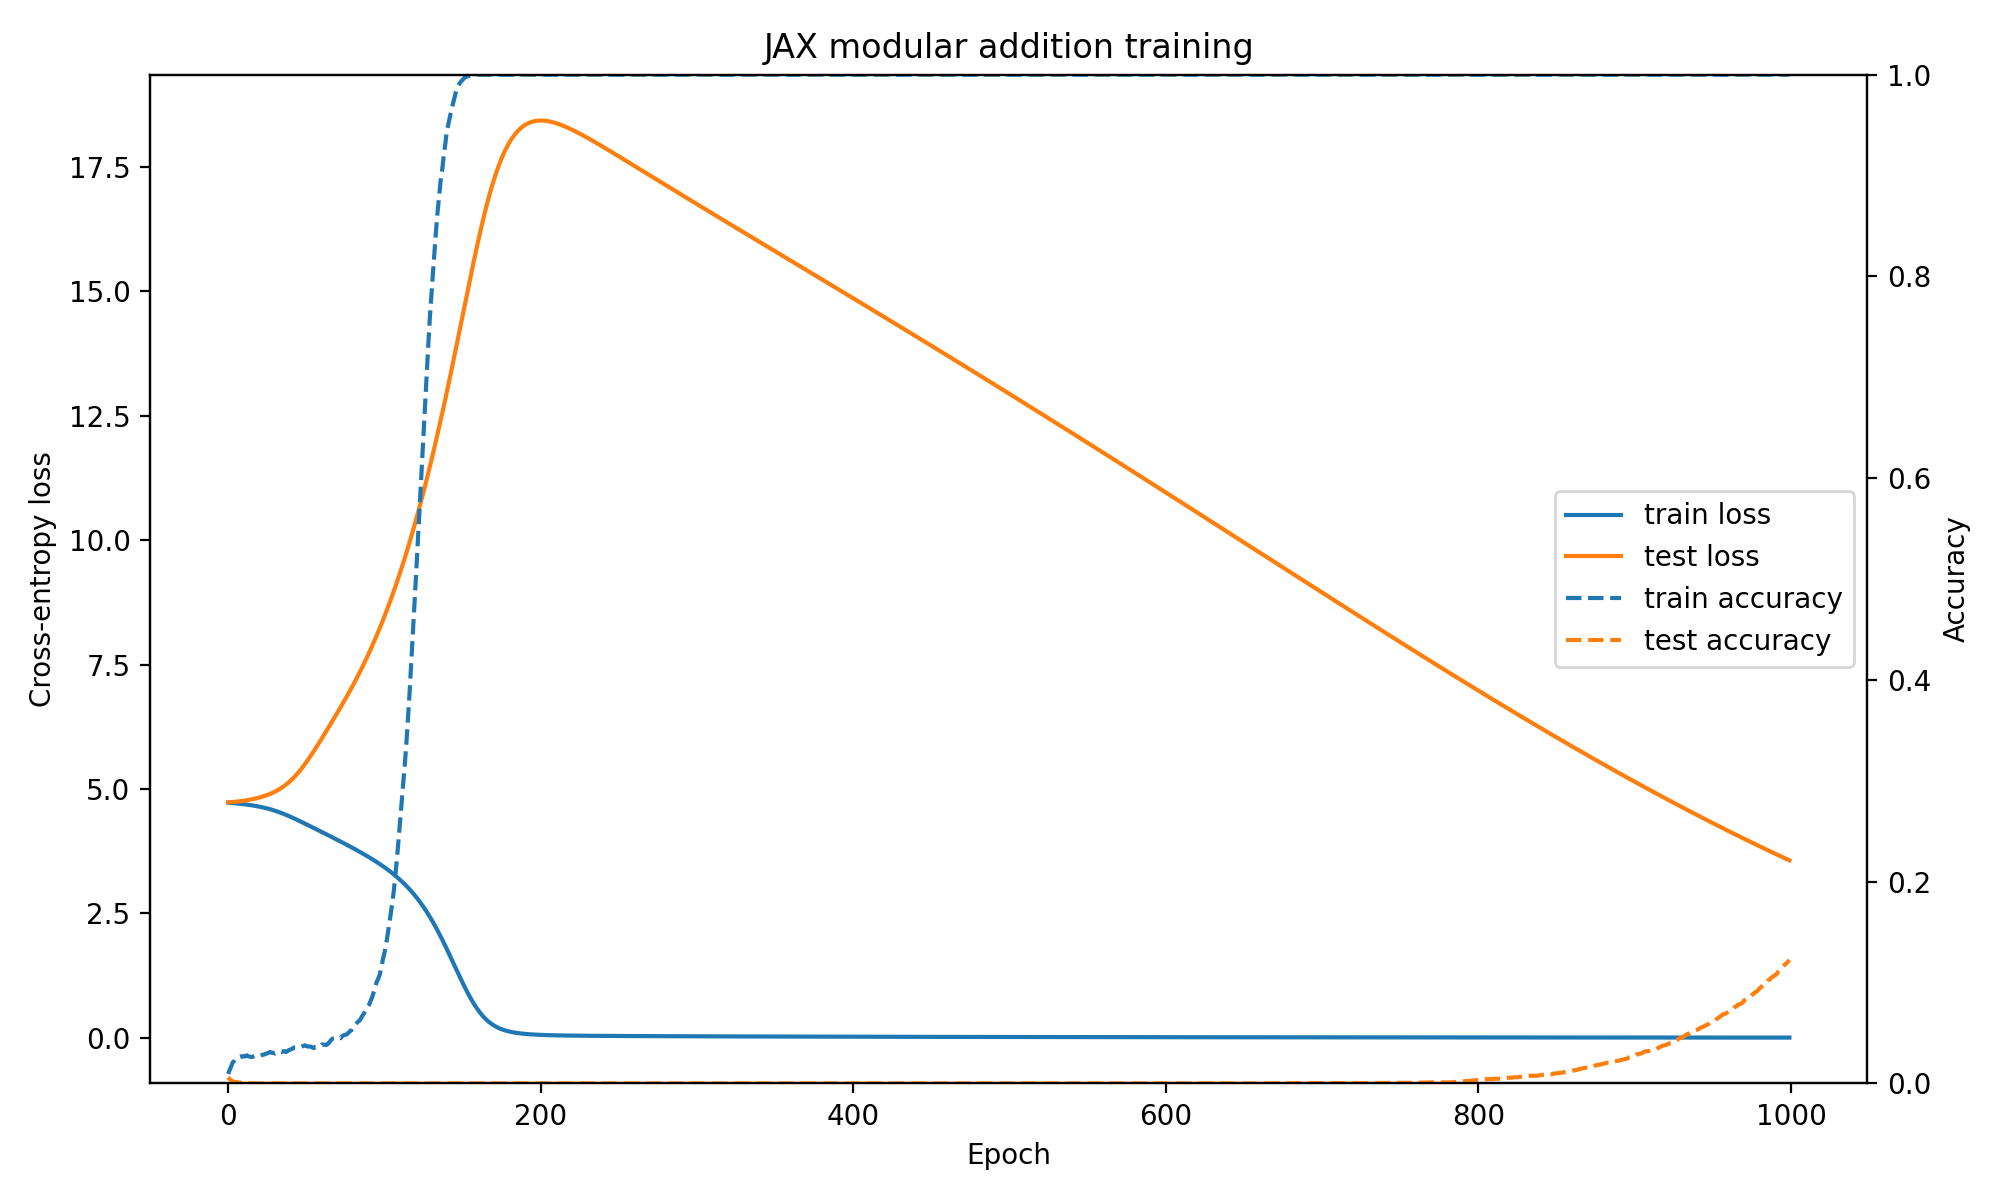
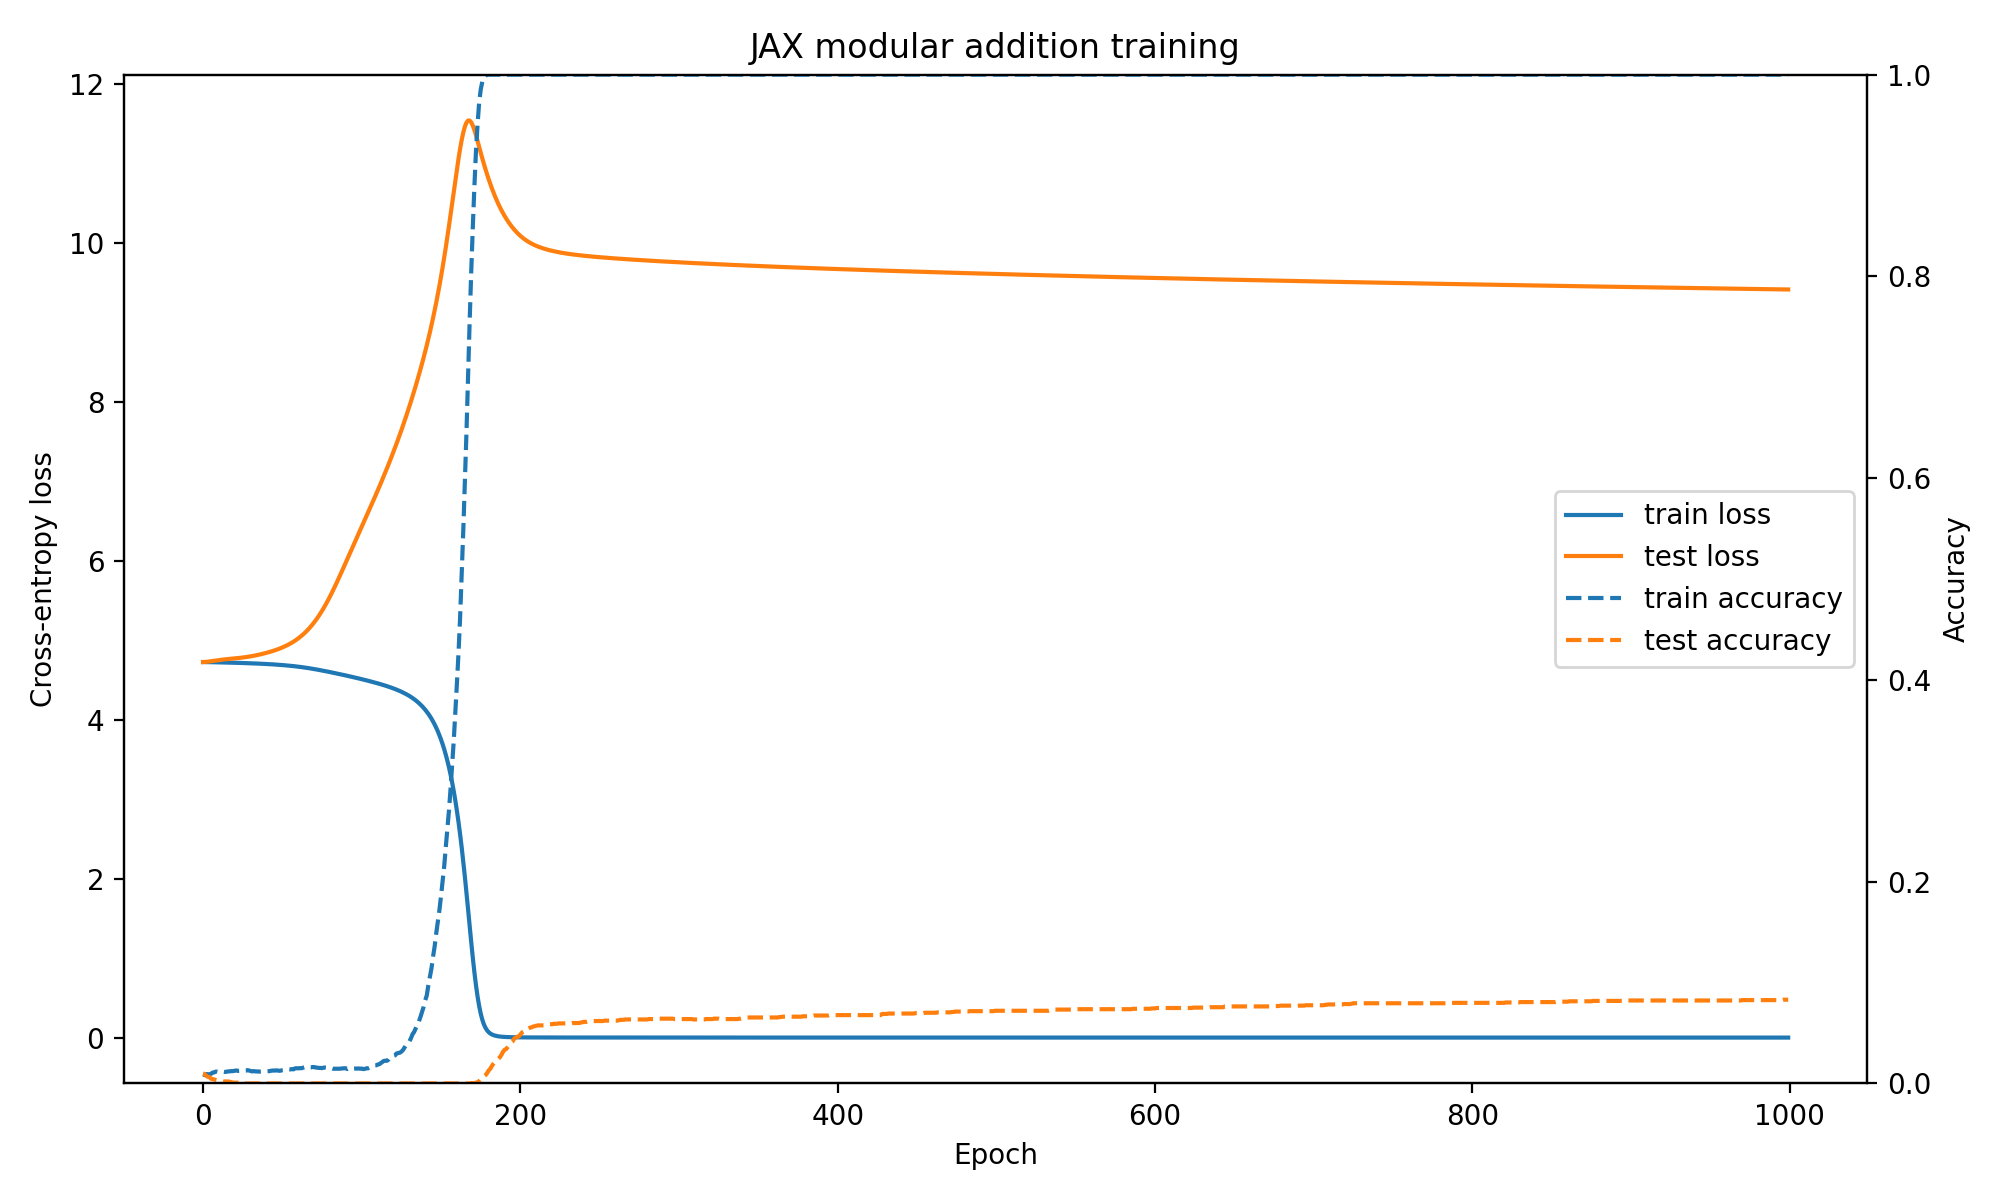
make optimizers better

diff --git a/1_jax_basics_clean.py b/1_jax_basics_clean.py
@@ -4,7 +4,7 @@ Minimal JAX grokking setup for modular addition.
 Builds from scratch:
 - Linear layer
 - MLP
-- AdamW
+- Optax AdamW/SGD optimizer
 - Cross-entropy loss
 - JIT train/eval steps
 - Train/test accuracy + loss plot
@@ -17,6 +17,7 @@ import jax
 import jax.numpy as jnp
 import jax.random as jr
 import matplotlib.pyplot as plt
+from optax import adamw, apply_updates, sgd
 from tqdm import tqdm
 
 
@@ -24,17 +25,23 @@ from tqdm import tqdm
 # Config
 # -----------------------------
 P = 113
-TEST_FRAC = 0.5
+TEST_FRAC = 0.2
 NUM_EPOCHS = 1000
 SEED = 0
 
 EMBED_DIM = 128
 MLP_IN_DIM = 2 * EMBED_DIM
-MLP_HIDDEN_DIM = 1024
+MLP_HIDDEN_DIM = 256
 MLP_OUT_DIM = P
 
-LR = 1e-3
+OPTIMIZER_NAME = "sgd"
+ADAMW_LR = 1e-3
+ADAM_BETA1 = 0.9
+ADAM_BETA2 = 0.999
+ADAM_EPS = 1e-8
 WEIGHT_DECAY = 1.0
+SGD_LR = 3.0
+SGD_MOMENTUM = 0.9
 PLOT_PATH = Path("jax_modular_addition_training.png")
 
 
@@ -81,55 +88,23 @@ def get_input_embeddings(embed_params, x):
 
 
 # -----------------------------
-# Optimizer: AdamW
+# Optimizer
 # -----------------------------
-def zeros_like_tree(tree):
-    return jax.tree.map(jnp.zeros_like, tree)
+def make_optimizer(name=OPTIMIZER_NAME):
+    if name == "adamw":
+        return adamw(
+            learning_rate=ADAMW_LR,
+            b1=ADAM_BETA1,
+            b2=ADAM_BETA2,
+            eps=ADAM_EPS,
+            weight_decay=WEIGHT_DECAY,
+        )
+    if name == "sgd":
+        return sgd(learning_rate=SGD_LR, momentum=SGD_MOMENTUM)
+    raise ValueError(f"unknown optimizer: {name}")
 
 
-def init_adamw_state(params):
-    return {
-        "step": jnp.array(0),
-        "m": zeros_like_tree(params),
-        "v": zeros_like_tree(params),
-    }
-
-
-def adamw_update(
-    params,
-    grads,
-    opt_state,
-    lr=LR,
-    beta1=0.9,
-    beta2=0.999,
-    eps=1e-8,
-    wd=WEIGHT_DECAY,
-):
-    step = opt_state["step"] + 1
-
-    m = jax.tree.map(
-        lambda old_m, g: beta1 * old_m + (1.0 - beta1) * g,
-        opt_state["m"],
-        grads,
-    )
-    v = jax.tree.map(
-        lambda old_v, g: beta2 * old_v + (1.0 - beta2) * (g * g),
-        opt_state["v"],
-        grads,
-    )
-
-    m_hat = jax.tree.map(lambda value: value / (1.0 - beta1**step), m)
-    v_hat = jax.tree.map(lambda value: value / (1.0 - beta2**step), v)
-
-    new_params = jax.tree.map(
-        lambda p, mh, vh: p - lr * (mh / (jnp.sqrt(vh) + eps) + wd * p),
-        params,
-        m_hat,
-        v_hat,
-    )
-
-    new_opt_state = {"step": step, "m": m, "v": v}
-    return new_params, new_opt_state
+optimizer = make_optimizer()
 
 
 # -----------------------------
@@ -192,7 +167,8 @@ def accuracy(params, batch):
 @jax.jit
 def train_step(params, opt_state, batch):
     loss, grads = jax.value_and_grad(loss_fn)(params, batch)
-    params, opt_state = adamw_update(params, grads, opt_state)
+    updates, opt_state = optimizer.update(grads, opt_state, params)
+    params = apply_updates(params, updates)
     return params, opt_state, loss
 
 
@@ -232,7 +208,7 @@ def main():
 
     data_train, data_test = make_modular_addition_data(k_data)
     params = init_model(k_model)
-    opt_state = init_adamw_state(params)
+    opt_state = optimizer.init(params)
 
     steps = []
     train_losses = []
